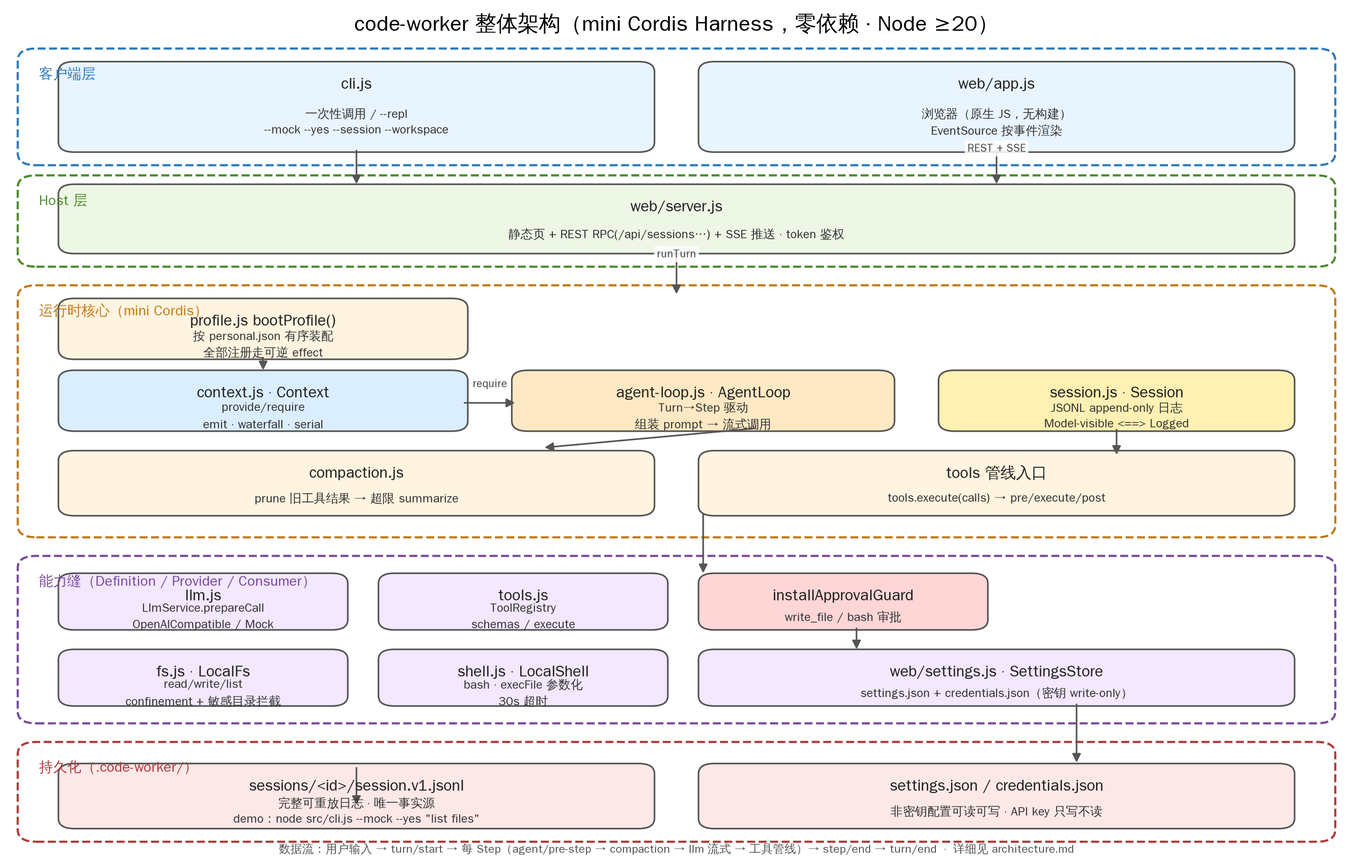
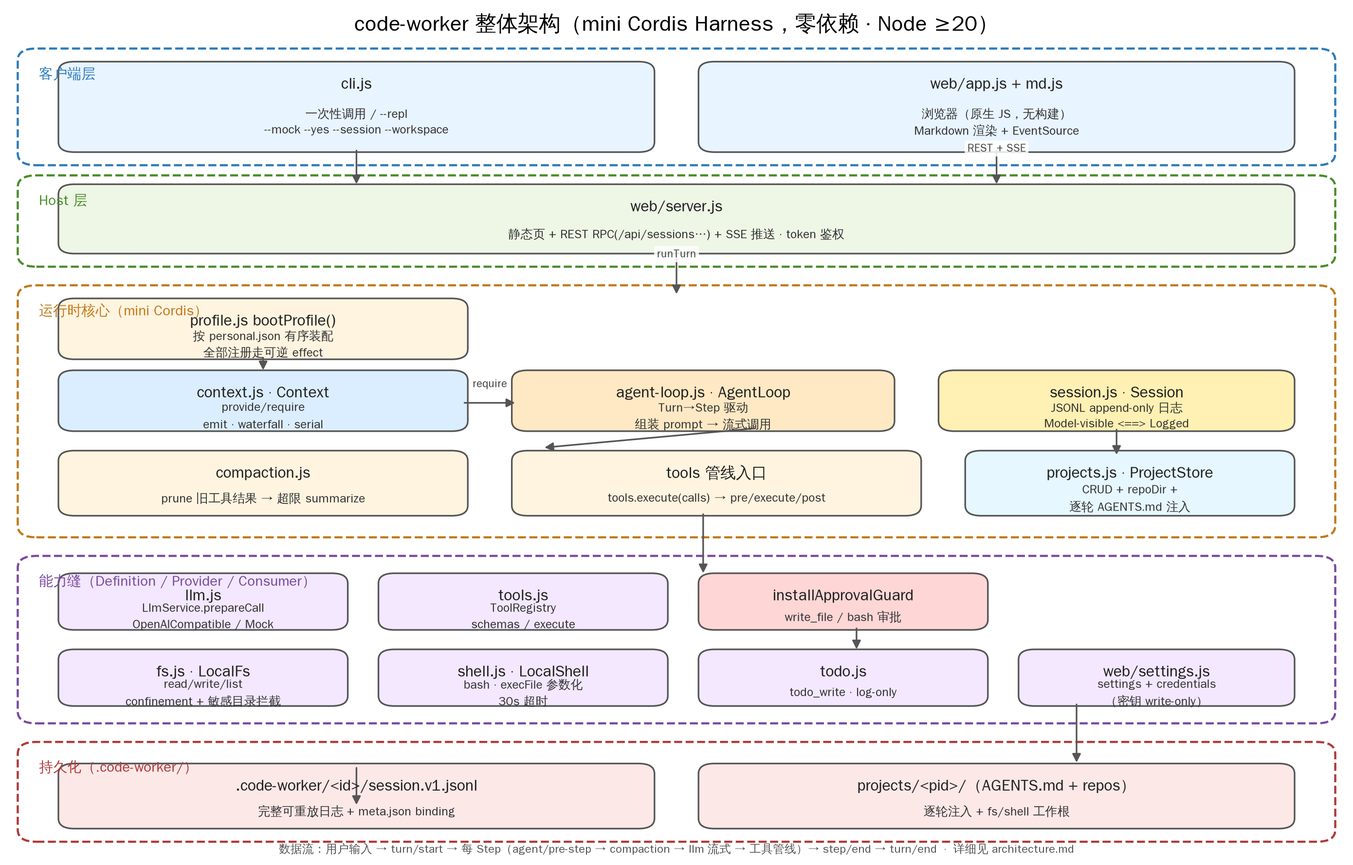
feat(web): session list filtered by selected project; session dirs properly identified

diff --git a/test/project-filter.test.js b/test/project-filter.test.js
@@ -1,0 +1,30 @@
+import { test } from "node:test";
+import assert from "node:assert/strict";
+import { mkdtempSync } from "node:fs";
+import { tmpdir } from "node:os";
+import { join } from "node:path";
+import { bootProfile } from "../src/profile.js";
+import { startWebServer } from "../src/web/server.js";
+
+test("sessions filtered by projectId", async () => {
+  const approval = { current: true };
+  const { ctx, store, dispose } = await bootProfile(new URL("../profiles/personal.json", import.meta.url).pathname, {
+    workspace: mkdtempSync(join(tmpdir(), "cw-pf-ws-")), autoApprove: approval, mock: true, home: mkdtempSync(join(tmpdir(), "cw-pf-home-")),
+  });
+  const server = await startWebServer({ ctx, store, approval }, { port: 0, host: "127.0.0.1" });
+  const base = `http://127.0.0.1:${server.address().port}`;
+  try {
+    const p = ctx.require("projects").create("filt");
+    const mk = async (body) => (await (await fetch(`${base}/api/sessions`, { method: "POST", headers: { "content-type": "application/json" }, body: JSON.stringify(body) })).json()).id;
+    const inProj = await mk({ projectId: p.id });
+    await mk({});
+    const all = await (await fetch(`${base}/api/sessions`)).json();
+    assert.equal(all.sessions.length, 2);
+    const filtered = await (await fetch(`${base}/api/sessions?projectId=${p.id}`)).json();
+    assert.deepEqual(filtered.sessions.map((s) => s.id), [inProj]);
+    assert.equal(filtered.sessions[0].projectId, p.id);
+  } finally {
+    server.close();
+    await dispose();
+  }
+});

diff --git a/src/web/server.js b/src/web/server.js
@@ -194,9 +194,20 @@ export function createWebServer({ ctx, store, approval, token }) {
         const { readdirSync } = await import("node:fs");
         const { statSync } = await import("node:fs");
         const ids = existsSync(store.homeDir)
-          ? readdirSync(store.homeDir).filter((id) => { try { return statSync(join(store.homeDir, id)).isDirectory(); } catch { return false; } })
+          ? readdirSync(store.homeDir).filter((id) => {
+              try {
+                const full = join(store.homeDir, id);
+                // A session dir contains its JSONL log (excludes projects/, settings, etc.)
+                return statSync(full).isDirectory() && readdirSync(full).some((f) => f.startsWith("session.v") || f === "meta.json");
+              } catch { return false; }
+            })
           : [];
-        return sendJson(res, 200, { sessions: ids.map((id) => { const s = store.open(id); return { id, title: s.title() }; }) });
+        const projectId = url.searchParams.get("projectId");
+        return sendJson(res, 200, {
+          sessions: ids
+            .map((id) => { const s = store.open(id); return { id, title: s.title(), projectId: s.binding?.projectId }; })
+            .filter((s) => !projectId || s.projectId === projectId),
+        });
       }
       if (url.pathname === "/api/sessions" && req.method === "POST") {
         const body = await readBody(req).catch(() => ({}));

diff --git a/web/app.js b/web/app.js
@@ -114,9 +114,15 @@ function openStream(id) {
 }
 
 async function refreshSessions() {
-  const { sessions } = await (await fetch(api("/sessions"))).json();
+  const pid = $("#project-picker").value;
+  const { sessions } = await (await fetch(api(`/sessions${pid ? `?projectId=${encodeURIComponent(pid)}` : ""}`))).json();
   $("#session-list").innerHTML = sessions.map((s) => `<li data-id="${escAttr(s.id)}" class="${s.id === currentId ? "active" : ""}">${esc(s.title || s.id)}</li>`).join("");
   document.querySelectorAll("#session-list li").forEach((li) => li.onclick = () => selectSession(li.dataset.id));
+  // If the current session is not in this project's list, switch to the first one.
+  if (currentId && !sessions.some((s) => s.id === currentId)) {
+    if (sessions[0]) selectSession(sessions[0].id);
+    else { currentId = null; $("#messages").innerHTML = ""; }
+  }
 }
 
 async function selectSession(id) {
@@ -173,8 +179,10 @@ $("#new-project").onclick = async () => {
   const name = prompt("Project 名称：");
   if (!name) return;
   await fetch(api("/projects"), { method: "POST", headers: { "content-type": "application/json" }, body: JSON.stringify({ name }) });
-  refreshProjects();
+  await refreshProjects();
+  refreshSessions();
 };
+$("#project-picker").onchange = () => refreshSessions();
 
 $("#new-session").onclick = async () => {
   const projectId = $("#project-picker").value || undefined;

diff --git a/src/session.js b/src/session.js
@@ -17,6 +17,7 @@ export class SessionStore {
     const dir = join(this.homeDir, id);
     mkdirSync(dir, { recursive: true });
     if (meta.projectId) writeFileSync(join(dir, "meta.json"), JSON.stringify(meta));
+    writeFileSync(join(dir, `session.v${SESSION_FORMAT_VERSION}.jsonl`), ""); // marker: this is a session dir
     const s = new Session(this, id, dir);
     this.cache.set(id, s);
     return s;

diff --git a/docs/modules.md b/docs/modules.md
@@ -1,29 +1,31 @@
 # 模块说明
 
-> 行数统计基于 2026-11-06 现状（`wc -l src/**/*.js`），仅供规模参考。
+> 行数统计基于 2026-11-06 现状（`wc -l src/**/*.js web/*`），仅供规模参考。
 
 ## 核心运行时（`src/`）
 
 | 文件（行数） | 对应上游 DSH | 关键导出 | 职责 |
 |---|---|---|---|
 | `context.js`（71） | Cordis `ctx` + `inject` | `Context{provide/get/require/on/emit/waterfall/serial/effect/dispose}` | 服务注册表 + 类型化事件。三种模式：`emit`（观察）/ `waterfall`（环绕，必须 `next()`）/ `serial`（有序，无 `next`）。`effect` 注册可逆副作用，`dispose` 时回滚。 |
-| `session.js`（102） | `core/session` | `SessionStore / Session`、`deriveMessages()`、`subscribe` 广播 | append-only JSONL 日志（`session.v1.jsonl`），唯一事实源。不变量 **Model-visible ⟺ Logged**；同一 id 单例缓存（保证 SSE 订阅者看到追加）；compaction 摘要投影。 |
-| `agent-loop.js`（102） | `core/agent-loop` | `AgentLoop.runTurn()` | Turn = 0..N Step；Step = 1 次模型请求 + 其工具调用。装配 system prompt、执行 compaction、流式调用、工具管线。LLM 失败记 `assistant/attempt` 后结束本轮。 |
-| `llm.js`（133） | `llm/llm` | `LlmService`、`OpenAICompatibleAdapter`、`DeepSeekAdapter`、`MockAdapter` | 适配器缝：loop 只调 `prepareCall()`，不感知 Provider。绑定调用返回 async generator：`{type:"text",delta}` chunk → `{type:"finish",text,toolCalls,usage}`。配置经可变 ref 读取，Web 设置页改端点/key/model 无需重启。 |
-| `tools.js`（74） | `core/tools` | `ToolRegistry`、`installApprovalGuard()` | 注册表 + 守卫执行管线：`tools/pre-execute → tools/execute → tools/post-execute`（waterfall），结果按 `maxBytes` 截断。审批守卫对 `write_file`/`bash` 生效（auto 批准 / per-call 挂起等 Web 裁决，超时默认 30s 拒绝）。 |
-| `fs.js`（44） | fs 能力缝 | `FsService`(定义) / `LocalFs`(实现) / `registerFsTools` | 工具：`read_file` / `write_file`（需审批）/ `list_dir`。`LocalFs.resolve` 做 workspace confinement（逃逸报错）+ 敏感目录 `.ssh/.aws/.gnupg/.dsh` 全局拦截。 |
+| `session.js`（118） | `core/session` | `SessionStore / Session`、`deriveMessages()`、`todos()`、`usageTotals()`、`title()`、`writeTodos()`、`subscribe` 广播 | append-only JSONL 日志（`session.v1.jsonl`），唯一事实源；会话目录含 `meta.json`（`{projectId, repo}` binding）。不变量 **Model-visible ⟺ Logged**；同一 id 单例缓存（保证 SSE 订阅者看到追加）；compaction 摘要投影；`todo/write`、标题、用量等从日志派生。 |
+| `agent-loop.js`（118） | `core/agent-loop` | `AgentLoop.runTurn()`、`compact()`、`inject()` | Turn = 0..N Step；Step = 1 次模型请求 + 其工具调用。**每轮开始**：① 项目隔离（把 `fs.root`/`shell.workspace` 指向绑定项目的 repo 目录，轮后恢复）；② 每轮实时读取项目 `AGENTS.md` 追加进 system prompt（`## Project instructions (AGENTS.md)` 段，经 `system-prompt/assemble` waterfall）；③ 装配 system prompt、执行 compaction、流式调用、工具管线。LLM 失败记 `assistant/attempt` 后结束本轮。 |
+| `llm.js`（140） | `llm/llm` | `LlmService`、`OpenAICompatibleAdapter`、`DeepSeekAdapter`、`MockAdapter` | 适配器缝：loop 只调 `prepareCall()`，不感知 Provider。绑定调用返回 async generator：`{type:"text",delta}` chunk → `{type:"finish",text,toolCalls,usage}`。配置经可变 ref 读取，Web 设置页改端点/key/model 无需重启。Mock 对 todo/计划/任务关键词会触发 `todo_write`（离线演示）。 |
+| `tools.js`（75） | `core/tools` | `ToolRegistry`、`installApprovalGuard()` | 注册表 + 守卫执行管线：`tools/pre-execute → tools/execute → tools/post-execute`（waterfall），结果按 `maxBytes` 截断；工具只拿到窄能力 `appendTodo`，不给整个 Session。审批守卫对 `write_file`/`bash` 生效（auto 批准 / per-call 挂起等 Web 裁决，超时默认 30s 拒绝）。 |
+| `fs.js`（54） | fs 能力缝 | `FsService`(定义) / `LocalFs`(实现) / `registerFsTools` | 工具：`read_file` / `write_file`（需审批）/ `list_dir`。`LocalFs.resolve` 做 workspace confinement（symlink canonicalize 后校验）+ 敏感目录 `.ssh/.aws/.gnupg/.dsh` 全局拦截。 |
 | `shell.js`（37） | shell 能力缝 | `ShellService` / `LocalShell` / `registerBashTool` | 工具：`bash`（需审批）。`execFile` 参数化执行（非字符串拼接），默认超时 30s，在 workspace 目录执行。 |
+| `todo.js`（52） | `todo/tool-todo` | `registerTodoTools` | 工具：`todo_write`——整体快照替换清单（上限 50 条，content ≤200 字符，status ∈ pending/in_progress/completed），落 `todo/write` 事件（log-only UI 状态，不进模型历史）；无变化跳过写盘。 |
+| `projects.js`（73）🆕 | —（P1 自研） | `ProjectStore` | 项目管理：`<projectsDir>/<id>/{project.json, AGENTS.md, docs/, skills/, agents/, outputs/, repos/<repo>/}`，默认 `~/.code-worker/projects`（`CW_PROJECTS_DIR` 可改）。`create/list/get/addRepo/repoDir/instructions`；创建自动建 `AGENTS.md` 模板 + `main` repo。 |
 | `compaction.js`（35） | `compaction-basic` + `tool-result-pruner` | `pruneToolResults / estimateChars / summarizeMessages` | 两段式：① 每步免费剪枝旧工具结果（保留最近 `keepRecent` 条，头尾 + `[pruned]`）；② 估算字符超 `maxContextChars`（默认 60000）时 LLM 摘要旧轮次为一条耐久 `compaction/summary` 事件，投影只保留摘要之后。 |
-| `profile.js`（53） | profile + bundle | `bootProfile()` | 按 `profiles/personal.json` 有序装配插件树，所有注册走可逆 effect。解析顺序：sessions → tools → fs/tool-fs → shell/tool-bash → settings/modelConfig → llm → agentLoop → guard-approval。 |
+| `profile.js`（60） | profile + bundle | `bootProfile()` | 按 `profiles/personal.json` 有序装配插件树，所有注册走可逆 effect。解析顺序：sessions → tools → fs/tool-fs → shell/tool-bash → todo → projects → settings/modelConfig → llm → agentLoop → guard-approval。 |
 | `cli.js`（82） | `dsh --profile personal` | — | 参数解析、最小 `.env` 加载（不覆盖已有 env）、三模式入口：一次性 / `--repl` / `--web`。`approval` 可变 ref 与审批守卫、Web 开关共享。 |
 
 ## Web 层
 
 | 文件 | 职责 |
 |---|---|
-| `src/web/server.js`（224） | Web Host：Node 原生 `http` 服务静态页 + 会话 RPC/SSE。路由、token 鉴权、workspace 切换（allowlist：启动 root / home / tmp 子树，realpath 校验）、逐次审批通知。 |
+| `src/web/server.js`（272） | Web Host：Node 原生 `http` 服务静态页 + 会话 RPC/SSE。路由、token 鉴权、workspace 切换（allowlist：启动 root / home / tmp 子树，realpath 后校验）、逐次审批通知、项目 CRUD、文件上传（`POST /api/upload`，5MB 上限，落 `uploads/`）、会话导出（`GET /api/sessions/:id/export` 下载 .jsonl）。 |
 | `src/web/settings.js`（63） | 设置存储：`settings.json`（非密钥）+ `credentials.json`（API key，**GET 永不回显，只回 `hasApiKey`**），原子写 + 文件 mode 保护。 |
-| `web/app.js`（178）、`web/index.html`（45）、`web/style.css`（39） | 浏览器客户端：按 session 事件渲染 user/assistant/tool 结果，侧栏会话管理、审批开关、composer 模型选择、`/compact`。 |
+| `web/app.js`（266）、`web/index.html`（75）、`web/style.css`（75）、`web/md.js`（43）🆕 | 浏览器客户端：按 session 事件渲染 user/assistant/tool 结果，侧栏会话管理、审批开关、composer 模型选择、`/compact`；新建 `web/md.js` 零依赖 Markdown 渲染（代码块复制按钮、工具卡片区分呈现）；`+` 菜单（上传文件、goal/plan/feedback、compact、permission、model、export）。 |
 
 ## Profile（`profiles/personal.json`）
 
@@ -42,6 +44,18 @@
 }
 ```
 
+> `plugins` 列表仅作声明，`profile.js` 按固定顺序手写装配，不解析此数组。
+
+## 已注册工具（5 个）
+
+| 工具 | 参数 | 审批 | 后端 |
+|---|---|---|---|
+| `read_file` | `path` 必需 | 否 | `LocalFs.readFile` |
+| `write_file` | `path`, `content` 必需 | ✅ | `LocalFs.writeFile` |
+| `list_dir` | `path` 可选，默认 `"."` | 否 | `LocalFs.listDir` |
+| `bash` | `command` 必需 | ✅ | `LocalShell.run` |
+| `todo_write` | `todos[]` 必需（≤50） | 否 | `session.writeTodos` |
+
 ## 设计不变量
 
 1. **Model-visible ⟺ Logged**：发给模型的一切都在 append-only 日志里，日志即完整可重放历史。
@@ -49,24 +63,26 @@
 3. **审批在 executor 层**，不在 schema 层：`write_file`/`bash` 未批准时在 `tools/pre-execute` 被拒，而非从工具列表过滤。
 4. **可逆注册**：`ctx.effect(() => register(...))` 在 `dispose` 时自动注销。
 5. **密钥 write-only**：`credentials.json` 的 API key 任何 GET 都不返回。
-6. **Profile 有序装配**：插件按声明顺序应用，配置项来自 profile（默认值见上）。
+6. **Profile 有序装配**：`profile.js` 按固定顺序应用，配置项来自 profile（默认值见上）。
+7. **项目隔离**：有 binding 的会话每轮把 `fs`/`shell` 根指向本项目 repo 目录，轮后恢复；`AGENTS.md` 每轮实时重读，编辑即时生效。
+8. **窄能力**：工具只能通过 `appendTodo` 写日志，不能直接访问 Session 全量。
 
 ## 扩展点
 
 - **新工具**：`ctx.tools.register({name, description, schema, execute})`，后端经 `ctx.fs` / `ctx.shell` 缝。
-- **拦截**：`ctx.on("agent/pre-step" | "tools/pre-execute", fn, "waterfall")`（必须 `next()`）。
+- **拦截**：`ctx.on("agent/pre-step" | "tools/pre-execute" | "system-prompt/assemble", fn, "waterfall")`（必须 `next()`）。
 - **新 Provider**：`ctx.get("llm").registerAdapter(name, adapter)`，loop 不变。
-- **会话**：`.code-worker/sessions/<id>/session.v1.jsonl` 即完整可重放日志。
+- **会话**：`.code-worker/<id>/session.v1.jsonl` 即完整可重放日志（同目录 `meta.json` 存项目 binding）。
 
-## 测试（`test/`，15 个 `node:test` 文件）
+## 测试（`test/`，18 个 `node:test` 文件）
 
-`harness`（waterfall / 可逆 effect / 端到端日志 / confinement / 审批）、`web`、`settings`、`streaming`、`compaction`、`session-identity`、`retry`、`title`、`usage`、`model-override`、`approval`、`workspace`、`status`、`review2`、`blocked`。
+`harness`（waterfall / 可逆 effect / 端到端日志 / confinement / 审批）、`web`、`settings`、`streaming`、`compaction`、`session-identity`、`retry`、`title`、`usage`、`model-override`、`approval`、`workspace`、`status`、`review2`、`blocked`、`todo`🆕、`render`🆕、`projects`🆕。
 
 运行：`npm test`。
 
 ## 已知局限
 
-- 无子代理 / Web 检索 / SQLite 检索；无 compaction 以外的记忆机制。
+- 无子代理 / Web 检索 / SQLite 检索；无 compaction 以外的记忆机制（项目记忆靠 `AGENTS.md` 人工维护）。
 - `bash` 在 workspace 本地执行 shell（个人使用，默认需 `--yes` 或 Web 批准）；命令文本层无法可靠拦截敏感路径访问。
 - Web 服务直接暴露文件读写与命令执行能力（受审批开关控制），仅可信 LAN 使用，勿做公网端口转发。
 - `settings/test` 只打已配置 host；token 只走 header/query bootstrap，CLI 打印用占位符。

diff --git a/docs/architecture.md b/docs/architecture.md
@@ -2,7 +2,7 @@
 
 ![整体架构图](architecture.png)
 
-> PNG 为 Mermaid 图的静态快照（生成脚本未入库）；改结构时以 Mermaid 为准，PNG 按需重绘。
+> PNG 由 `draw_arch.py`（matplotlib）绘制，与下方 Mermaid 图等价；改结构时两处同步。
 
 ## 分层
 
@@ -13,13 +13,14 @@
 │ Host 层   web/server.js（静态页 + RPC + SSE 推送）            │
 ├──────────────────────────────────────────────────────────────┤
 │ 运行时核心  Context · AgentLoop · Session · compaction ·      │
-│            profile.bootProfile（装配）                         │
+│            profile.bootProfile（装配） · ProjectStore          │
 ├──────────────────────────────────────────────────────────────┤
-│ 能力缝    LlmService · ToolRegistry(+审批守卫) · Fs · Shell    │
-│          （Definition / Provider / Consumer 三段分离）         │
+│ 能力缝    LlmService · ToolRegistry(+审批守卫) · Fs · Shell   │
+│           · todo_write · Projects（隔离根 + AGENTS.md）        │
 ├──────────────────────────────────────────────────────────────┤
-│ 持久化    .code-worker/sessions/<id>/session.v1.jsonl         │
+│ 持久化    .code-worker/<id>/session.v1.jsonl (+ meta.json)    │
 │           .code-worker/settings.json / credentials.json       │
+│           ~/.code-worker/projects/<id>/（项目 + AGENTS.md）    │
 └──────────────────────────────────────────────────────────────┘
 ```
 
@@ -29,17 +30,18 @@
 flowchart TB
     subgraph Client["客户端层"]
         CLI["cli.js<br/>一次性 / --repl"]
-        WebUI["web/app.js<br/>浏览器（EventSource 渲染）"]
+        WebUI["web/app.js + md.js<br/>浏览器（EventSource + Markdown 渲染）"]
     end
 
     subgraph Host["Host 层"]
-        WEB["web/server.js<br/>静态页 + RPC + SSE 推送"]
+        WEB["web/server.js<br/>静态页 + RPC + SSE 推送 + 项目/上传/导出"]
     end
 
     subgraph Runtime["运行时核心 (mini Cordis)"]
         CTX["context.js · Context<br/>provide/require + waterfall/serial/emit"]
-        LOOP["agent-loop.js · AgentLoop<br/>Turn→Step 驱动"]
-        SES["session.js · Session<br/>JSONL append-only 日志"]
+        LOOP["agent-loop.js · AgentLoop<br/>Turn→Step 驱动<br/>逐轮：项目隔离 + AGENTS.md 注入"]
+        SES["session.js · Session<br/>JSONL append-only 日志 + meta.json binding"]
+        PROJ["projects.js · ProjectStore<br/>CRUD + repoDir + instructions"]
         COMP["compaction.js<br/>prune + summarize"]
         PRO["profile.js · bootProfile<br/>personal.json 有序装配"]
     end
@@ -50,15 +52,17 @@ flowchart TB
         GUARD["installApprovalGuard<br/>write_file / bash 审批"]
         FS["fs.js · LocalFs<br/>read/write/list"]
         SH["shell.js · LocalShell<br/>bash"]
+        TODO["todo.js<br/>todo_write（log-only）"]
     end
 
-    subgraph Data["持久化 (.code-worker/)"]
-        LOG["sessions/<id>/session.v1.jsonl"]
+    subgraph Data["持久化"]
+        LOG[".code-worker/<id>/session.v1.jsonl<br/>+ meta.json binding"]
         SET["settings.json / credentials.json<br/>(密钥 write-only)"]
+        PRJ["~/.code-worker/projects/<id>/ AGENTS.md + repos/<repo>/"]
     end
 
     CLI --> PRO --> CTX
-    WebUI <-->|"REST + SSE /api/sessions"| WEB
+    WebUI <-->|"REST + SSE /api/sessions·projects·upload"| WEB
     WEB --> LOOP
     LOOP <-->|"append / deriveMessages"| SES
     LOOP -->|"prepareCall（绑定）"| LLM
@@ -66,21 +70,27 @@ flowchart TB
     TOOLS --> GUARD
     TOOLS --> FS
     TOOLS --> SH
+    TOOLS --> TODO
     LOOP --> COMP
+    LOOP -->|"fs.root/shell.workspace 切换 + instructions"| PROJ
     SES --> LOG
     WEB --> SET
+    PROJ --> PRJ
 
     style CTX fill:#eef6ff
     style SES fill:#fff7e6
     style GUARD fill:#ffeef0
+    style PROJ fill:#e6f7ff
 ```
 
-## 一次 Turn 的数据流
+## 一次 Turn 的数据流（项目绑定时多两步）
 
 ```
 用户输入
+  → 项目隔离：fs.root / shell.workspace 指向 repos/<repo>/（记下 prevRoots）
   → turn/start + user/message 落日志
   → system-prompt/assemble (waterfall)，system/message 落日志
+      ↑ base prompt = "You are Code Worker…" + 本项目 AGENTS.md（每轮实时重读）
   → 每 Step:
       agent/pre-step (waterfall，可改写/拒绝)
       → compaction（prune 旧工具结果 → 超限则 summarize）
@@ -89,6 +99,7 @@ flowchart TB
       → tool/call 落日志 → tools 管线（pre 审批 → execute → post，结果截断）
       → tool/result 落日志 → step/end
   → 无更多 toolCalls 时 turn 结束
+  → agent/turn-stopping (serial) → turn/end → 首轮自动生成标题 → 恢复 fs/shell 根
 ```
 
 每个 Step 内部事件顺序（见 `src/agent-loop.js` 头部注释）：
@@ -103,22 +114,36 @@ turn/start → claim → snapshot model → assemble prompt+tools
 ## 持久化布局
 
 ```
-.code-worker/
-├── sessions/<id>/session.v1.jsonl   # 完整可重放日志（唯一事实源）
-├── settings.json                    # 非密钥配置（可读可写）
-└── credentials.json                 # API key（write-only，GET 不回显）
+.code-worker/                          ← profile.home，相对启动目录
+├── <id>/session.v1.jsonl              ← 完整可重放日志（唯一事实源）
+├── <id>/meta.json                     ← 项目 binding {projectId, repo}
+├── settings.json                      ← 非密钥配置（可读可写）
+└── credentials.json                   ← API key（write-only，GET 不回显）
+
+~/.code-worker/projects/               ← CW_PROJECTS_DIR 可改
+└── <projectId>/
+    ├── project.json                   ← {id, name, createdAt, repos[]}
+    ├── AGENTS.md                      ← 项目约定，每轮注入 system prompt
+    ├── repos/<repo>/                  ← 会话的 fs/shell 工作根
+    ├── docs/ skills/ agents/ outputs/
 ```
 
 ## Web API（`src/web/server.js`）
 
 | 方法 | 路径 | 说明 |
 |---|---|---|
-| `GET` | `/`、`/*.html\|js\|css` | 静态客户端 `web/` |
+| `GET` | `/`、`/*.html\|js\|css` | 静态客户端 `web/`（含 `md.js`） |
+| `GET/POST` | `/api/projects` | 列出 / 创建项目 |
+| `GET` | `/api/projects/:id` | 项目详情（含 repos + AGENTS.md 内容） |
+| `POST` | `/api/projects/:id/repos` | 新增 repo |
+| `PUT` | `/api/projects/:id/instructions` | 覆盖写 AGENTS.md |
+| `POST` | `/api/upload` | 上传文件（base64，5MB 上限，落 `uploads/`） |
 | `GET/PUT` | `/api/workspace` | 查看/切换 workspace（allowlist 校验） |
 | `GET/PUT` | `/api/settings`、`/api/settings/test` | 读写设置、连通性测试 |
 | `POST` | `/api/approvals` | 逐次审批裁决（per-call 模式） |
-| `GET/POST` | `/api/sessions` | 列出 / 创建会话 |
-| `GET` | `/api/sessions/:id` | 读取会话事件 |
+| `GET/POST` | `/api/sessions` | 列出 / 创建会话（POST 可带 `projectId`/`repo` binding） |
+| `GET` | `/api/sessions/:id` | 详情：`binding`、`title`、`usage`、`todos`、事件、消息投影 |
+| `GET` | `/api/sessions/:id/export` | 下载 .jsonl 日志 |
 | `GET` | `/api/sessions/:id/stream` | SSE：先重放历史再推 live 事件 |
 | `POST` | `/api/sessions/:id/turn` | 提交一轮用户输入 |
 | `POST` | `/api/sessions/:id/compact` | 手动触发 compaction |

diff --git a/docs/README.md b/docs/README.md
@@ -12,8 +12,9 @@
 
 ## 速览
 
-- **定位**：个人版 DeepSeek Harness（mini-Cordis），零依赖，仅 Node ≥ 20 内置，约 1900 行（持续增长）。
-- **核心**：`Context`（服务注册 + 类型化事件） + `Session`（append-only 日志，唯一事实源） + 三段式能力缝（Definition / Provider / Consumer）。
+- **定位**：个人版 DeepSeek Harness（mini-Cordis），零依赖，仅 Node ≥ 20 内置，约 2377 行。
+- **核心**：`Context`（服务注册 + 类型化事件） + `Session`（append-only 日志，唯一事实源） + 三段式能力缝（Definition / Provider / Consumer） + `ProjectStore`（项目隔离 + 逐轮 AGENTS.md 注入）。
+- **工具**：5 个（`read_file` / `write_file` / `list_dir` / `bash` / `todo_write`），其中 `write_file`、`bash` 需审批。
 - **入口**：`code-worker/src/cli.js`，经 `profiles/personal.json` + `src/profile.js` 的 `bootProfile()` 装配。
 - **运行**：`node src/cli.js --mock --yes "list files in workspace"`（离线演示）；`npm test`（`node --test`）。
 
@@ -23,12 +24,14 @@
 code-worker/
 ├── src/                  # 核心运行时（ESM）
 │   ├── context.js / session.js / agent-loop.js
-│   ├── llm.js / tools.js / fs.js / shell.js
+│   ├── llm.js / tools.js / fs.js / shell.js / todo.js
+│   ├── projects.js       # 项目 CRUD + repo 隔离 + AGENTS.md 注入
 │   ├── compaction.js / profile.js / cli.js
 │   └── web/server.js, web/settings.js
-├── web/                  # 浏览器客户端（原生 JS，无构建）
+├── web/                  # 浏览器客户端（原生 JS，无构建，含 md.js）
 ├── profiles/personal.json
-├── docs/                 # 设计文档（summary / blueprint）
-├── test/                 # 15 个 node:test 文件
-└── .code-worker/         # 运行时数据（sessions/、settings、credentials）
+├── docs/                 # 设计文档（summary / blueprint + 本文档同步副本）
+├── test/                 # 18 个 node:test 文件
+├── .code-worker/         # 运行时数据（会话日志 + meta.json、settings、credentials）
+└── ~/.code-worker/projects/  # 项目数据（项目 AGENTS.md + repos，CW_PROJECTS_DIR 可改）
 ```
